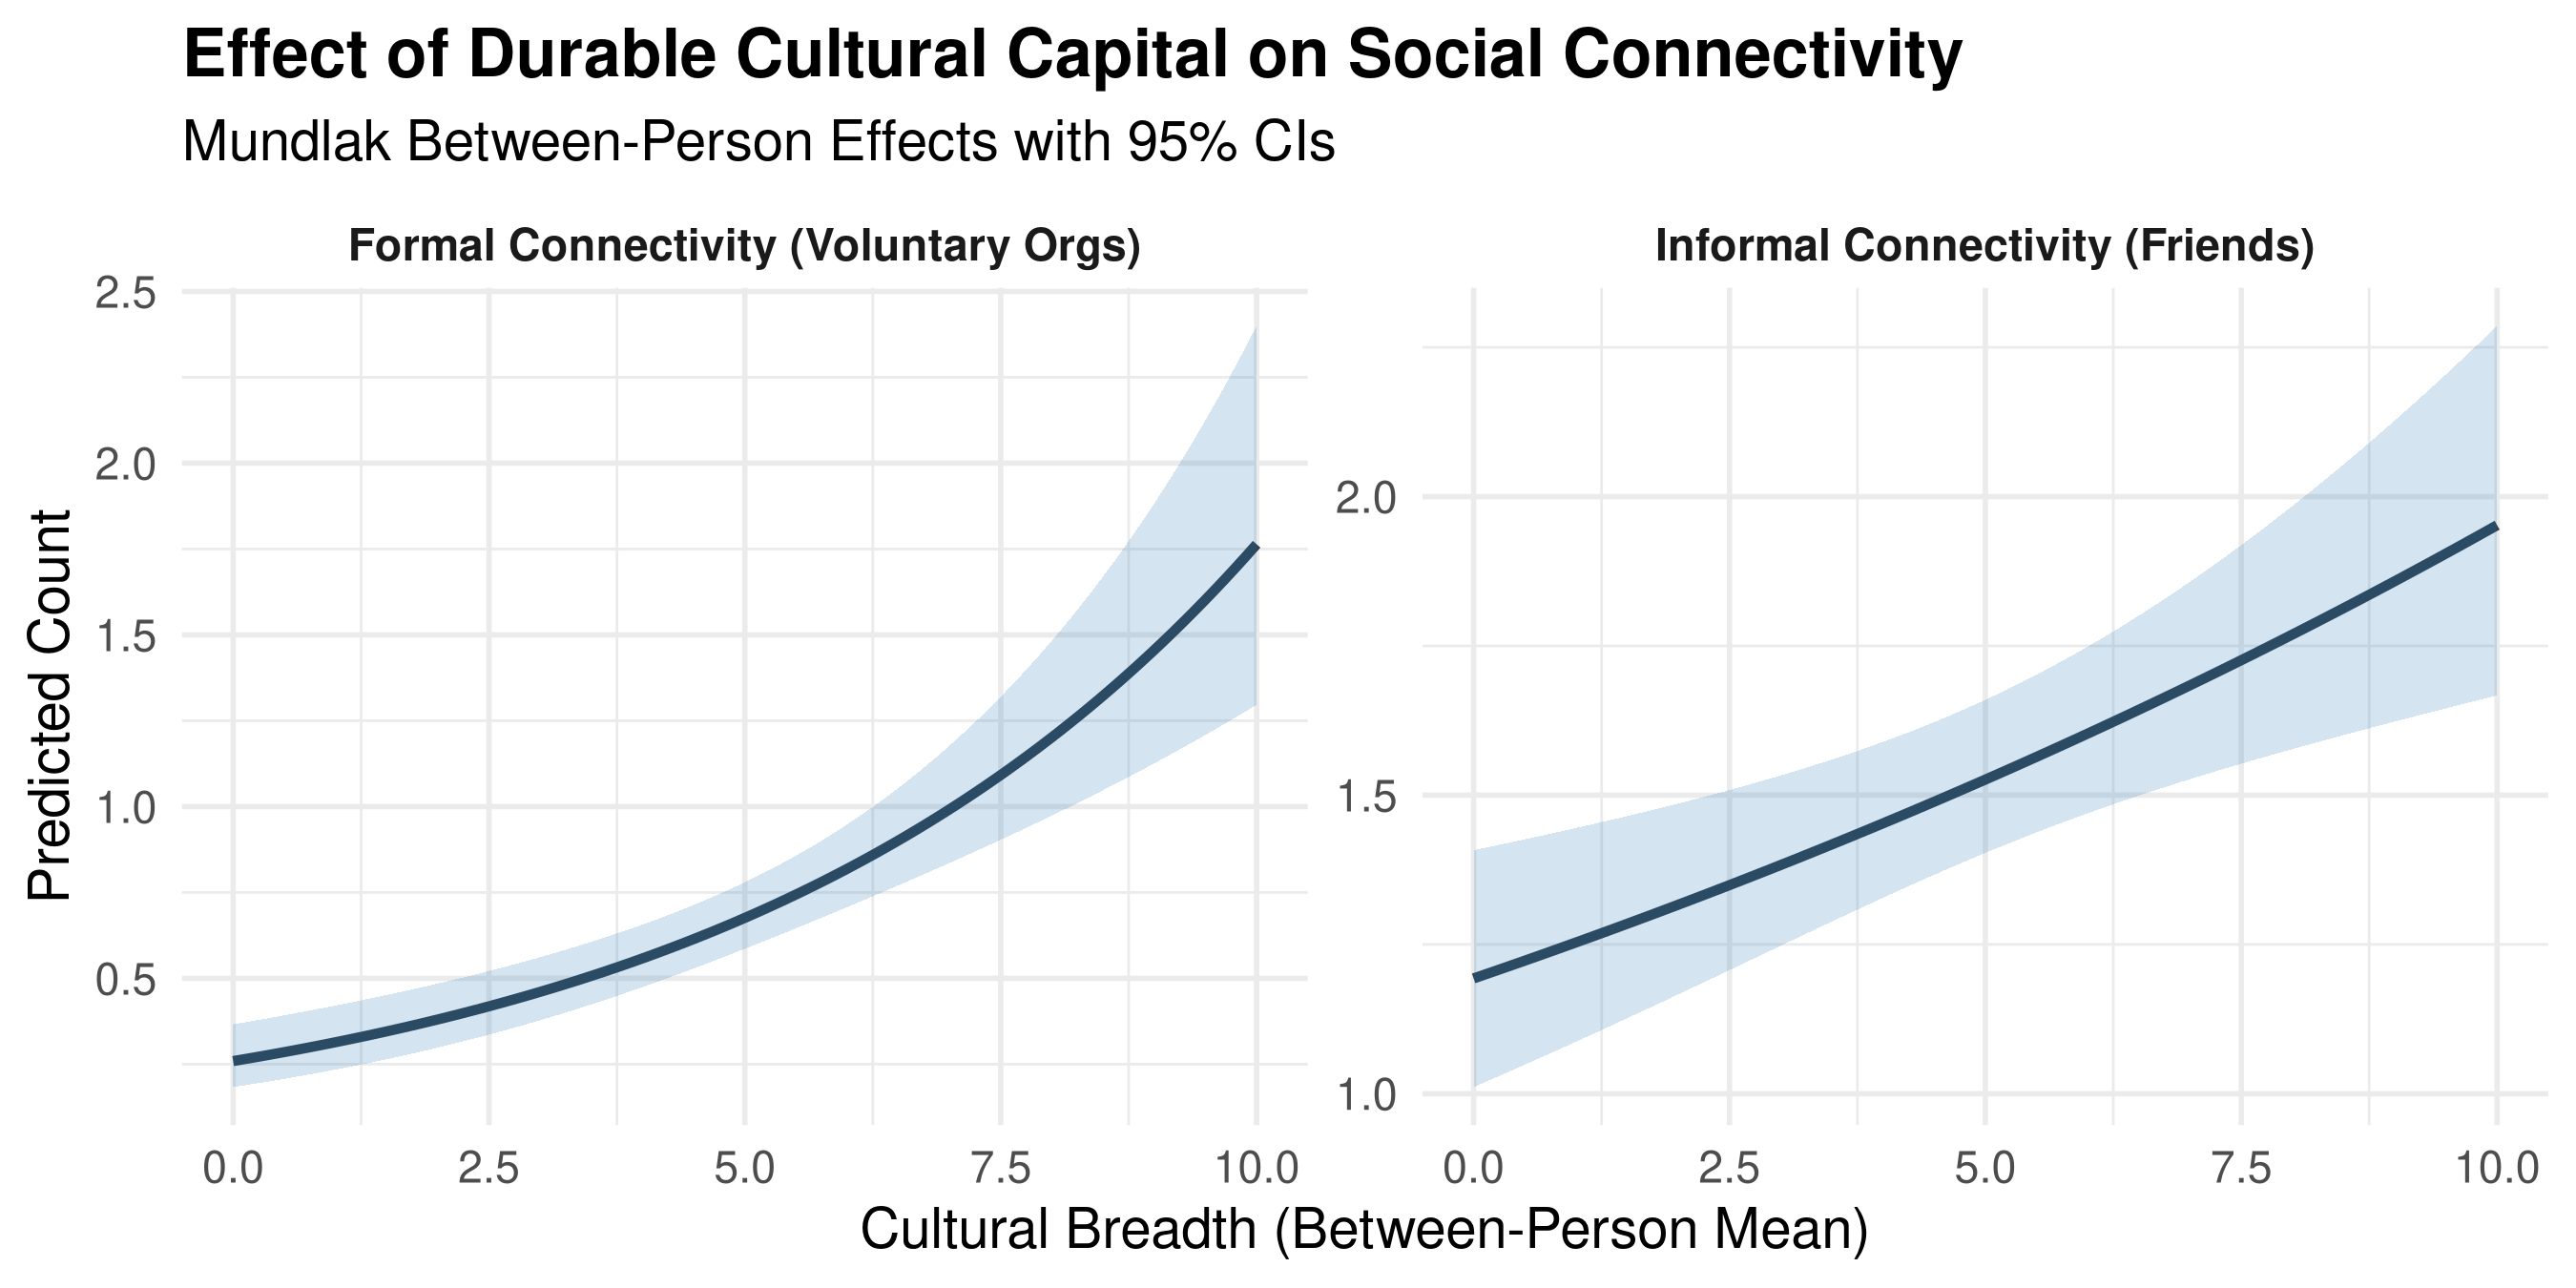
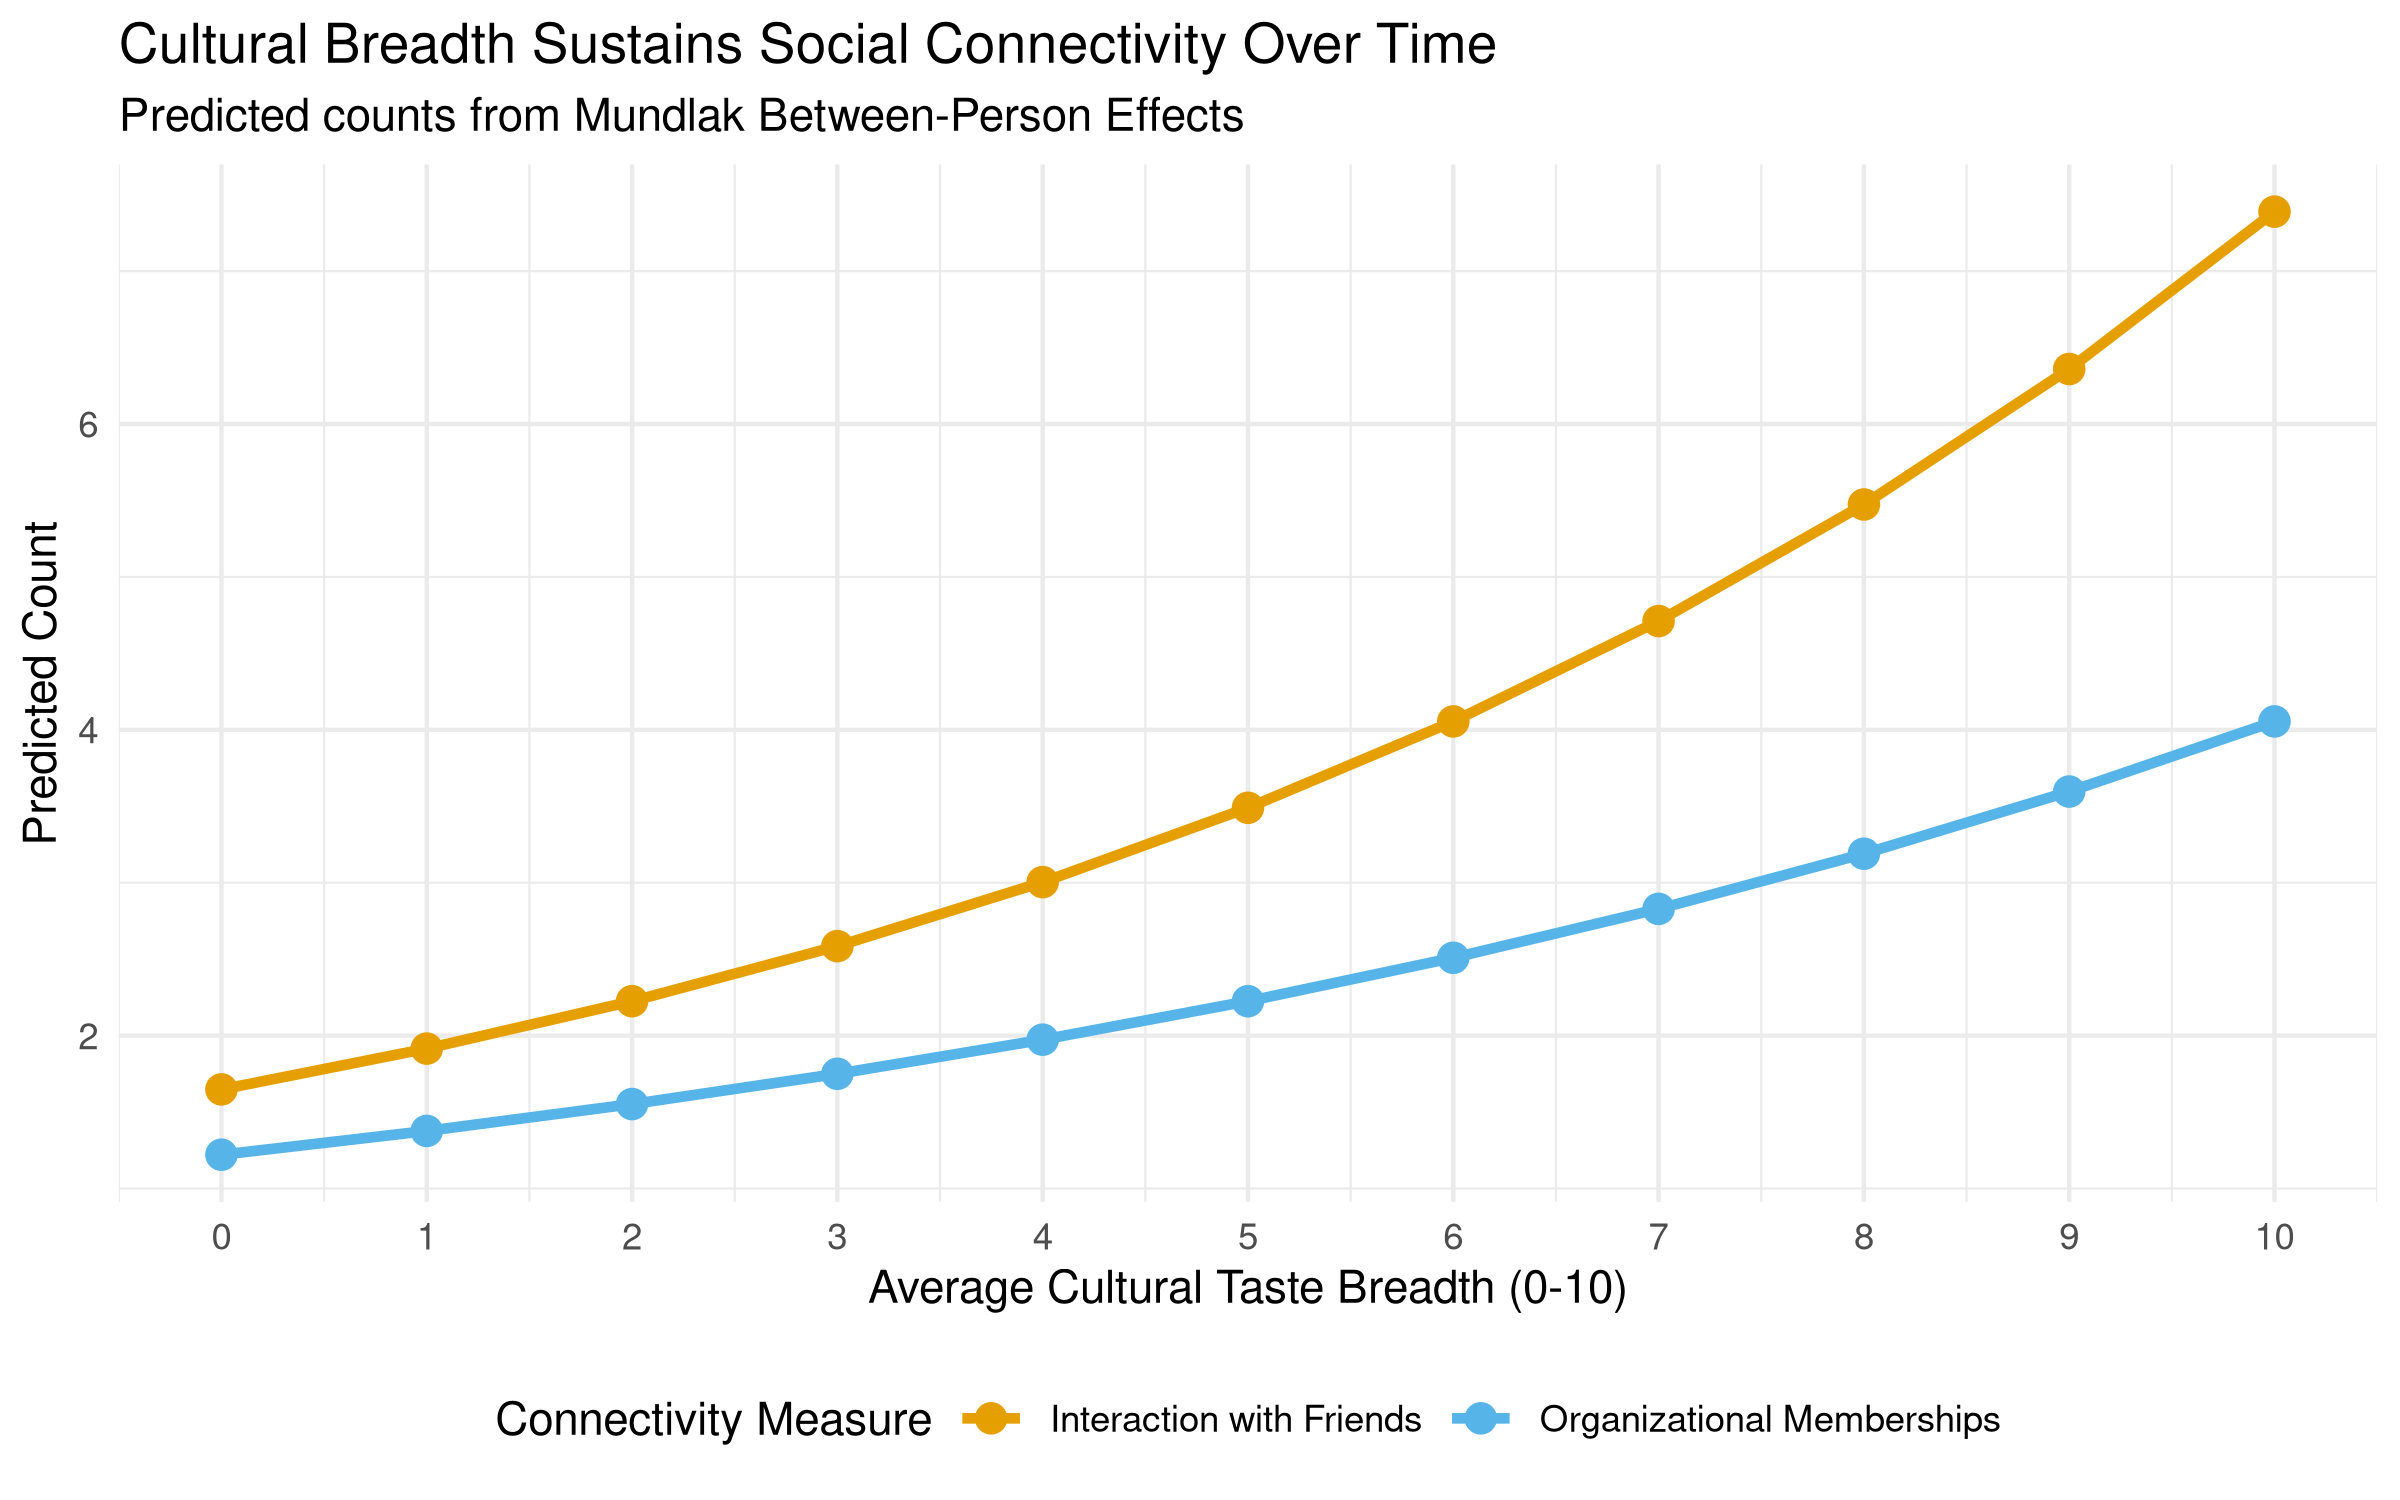
un lote de cosas

diff --git a/manuscript_research_note.tex b/manuscript_research_note.tex
@@ -194,7 +194,14 @@ Furthermore, having a high average repertoire of tastes is not only useful in su
 
 Consistent with expectations, the between-person effect of average cultural breadth on friendship interaction is substantial and highly significant ($\beta \approx 0.47, p < 0.001$). In stark contrast, cultural breadth has virtually no effect on the frequency of interacting with family members ($\beta \approx 0.05, p = 0.407$). Cultural capital operates exactly as theorized: it is a tool specifically used to generate and maintain weak or chosen ties in modern societies; it offers no structural advantage for maintaining family relationships, which operate on a logic of structural obligation rather than shared cultural homophily.
 
-The Mundlak specification also allows us to evaluate the \textit{within}-person effects---whether a temporary spike in an individual's cultural tastes over their own average translates to immediate gains in connectivity. Here, the dynamics differ by tie type. For informal interaction with friends, the within-person effect is highly significant ($p < 0.001$), indicating that when an individual temporarily expands their cultural taste breadth above their own baseline, they experience a simultaneous boost in socializing with friends. However, for organizational memberships, the within-person effect is not significant ($p = 0.119$). This suggests that while temporary spikes in cultural engagement immediately boost fluid, informal socializing, it is the durable, trait-like possession of cultural capital (the between-person effect) that is required to sustain structural integration into formal organizations.
+\begin{figure}[htbp]
+\centering
+\includegraphics[width=0.85\textwidth]{Plots/within_formal_informal.png}
+\caption{Within-Person Spikes in Cultural Capital Boost Informal but Not Formal Connectivity.}
+\label{fig:within_formal_informal}
+\end{figure}
+
+The Mundlak specification also allows us to evaluate the \textit{within}-person effects---whether a temporary spike in an individual's cultural tastes over their own average translates to immediate gains in connectivity. Here, the dynamics differ by tie type (Figure \ref{fig:within_formal_informal}). For informal interaction with friends, the within-person effect is highly significant ($p < 0.001$), indicating that when an individual temporarily expands their cultural taste breadth above their own baseline, they experience a simultaneous boost in socializing with friends. However, for organizational memberships, the within-person effect is not significant ($p = 0.119$). This suggests that while temporary spikes in cultural engagement immediately boost fluid, informal socializing, it is the durable, trait-like possession of cultural capital (the between-person effect) that is required to sustain structural integration into formal organizations.
 
 \section{Discussion and Conclusion}\label{discussion-and-conclusion}
 